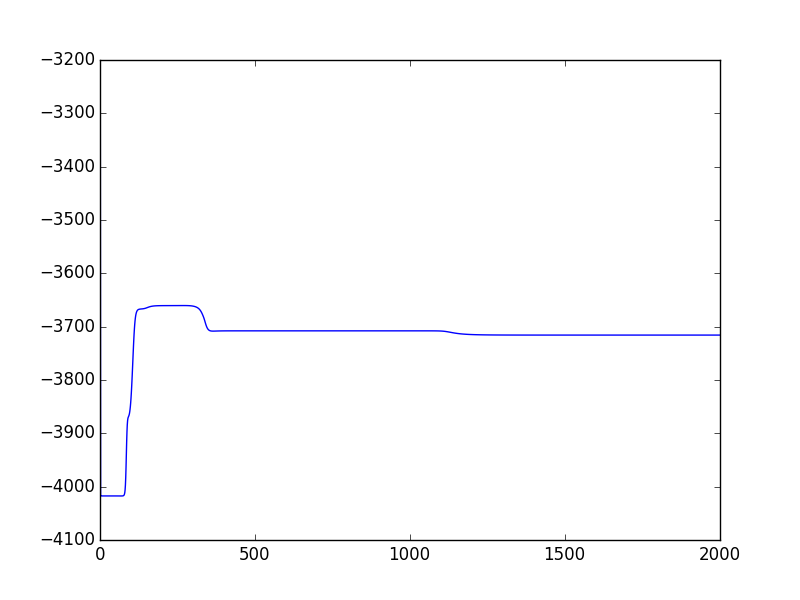
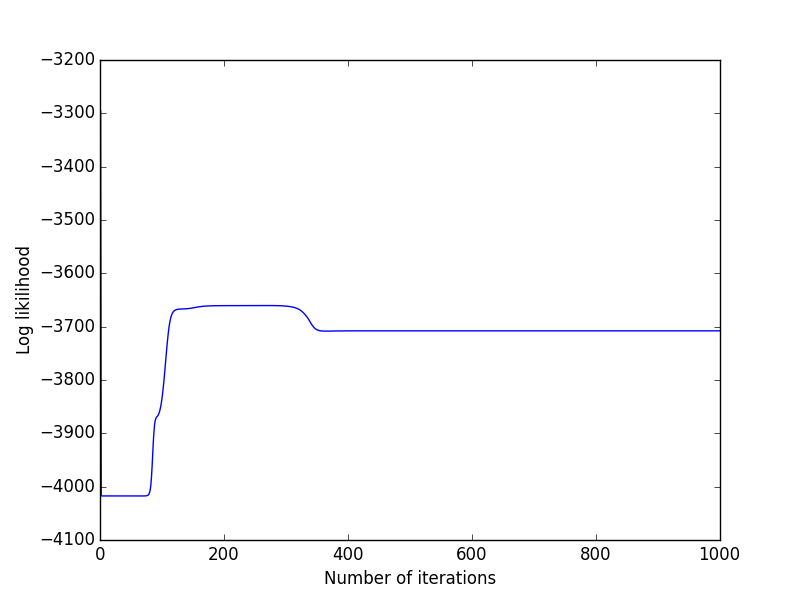
Updates to README.md

diff --git a/hmm.py b/hmm.py
@@ -40,7 +40,7 @@ class hmm:
 
   def train(self):
     # Initializing some book keeping variables. 
-    maxIters = 2000
+    maxIters = 1000
     iters = 0 
     oldLogProb = -np.inf
     logProb = 0 
@@ -220,4 +220,7 @@ if __name__ == "__main__":
   
   x = [ i + 1 for i in range(len(likilihood))]
   plt.plot(x, likilihood)
+  plt.xlabel("Number of iterations")
+  plt.ylabel("Log likilihood")
+  plt.show()
   plt.show()
